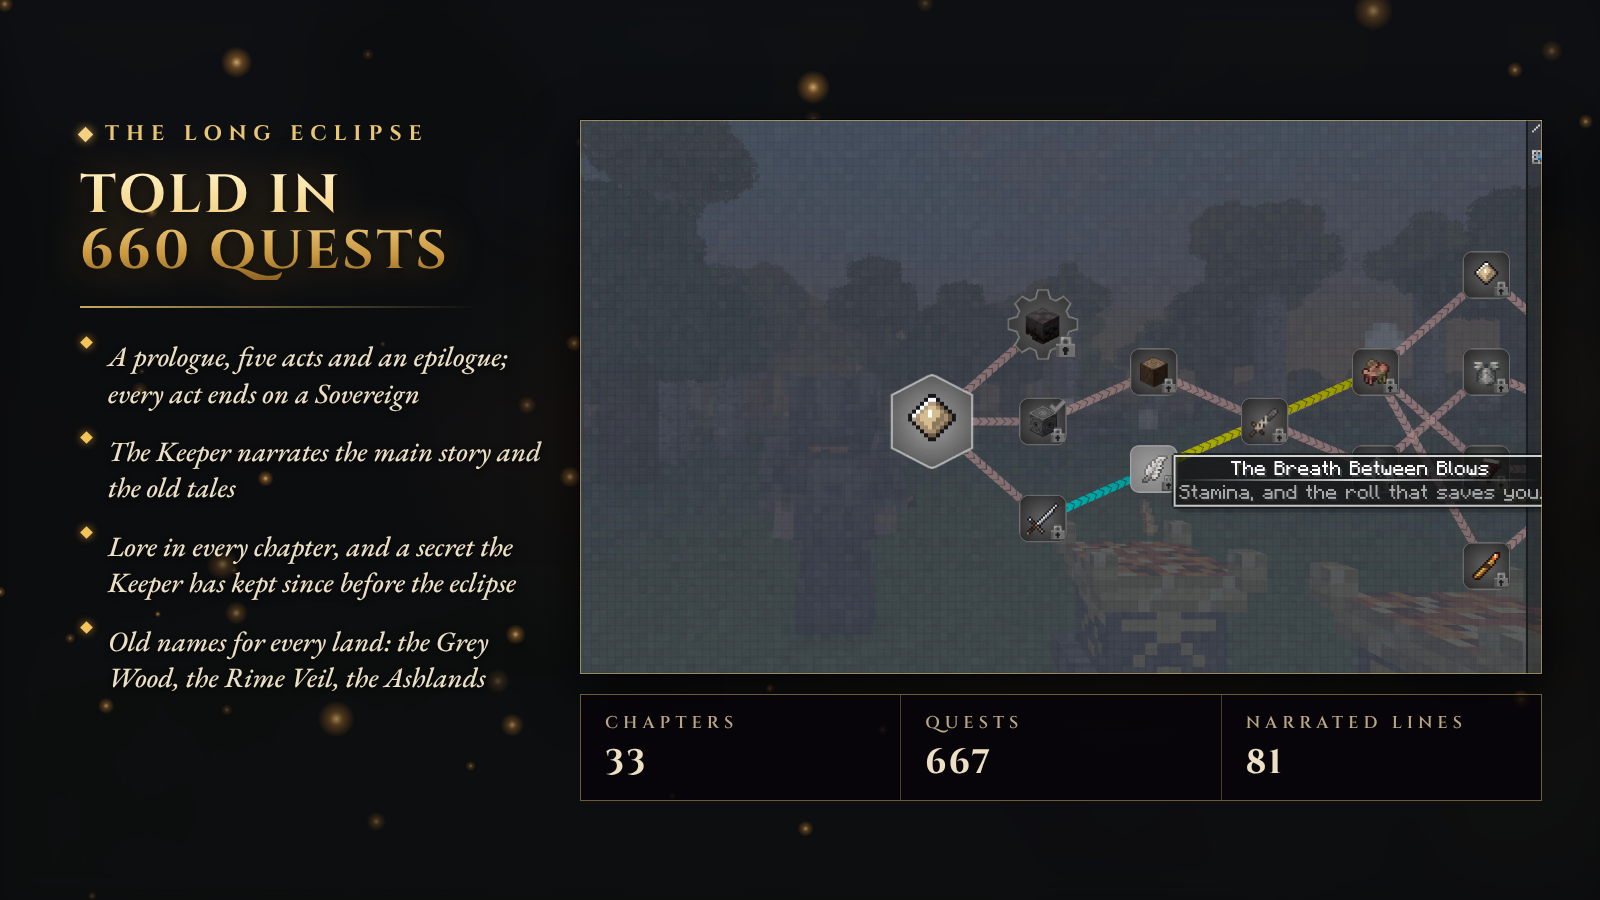
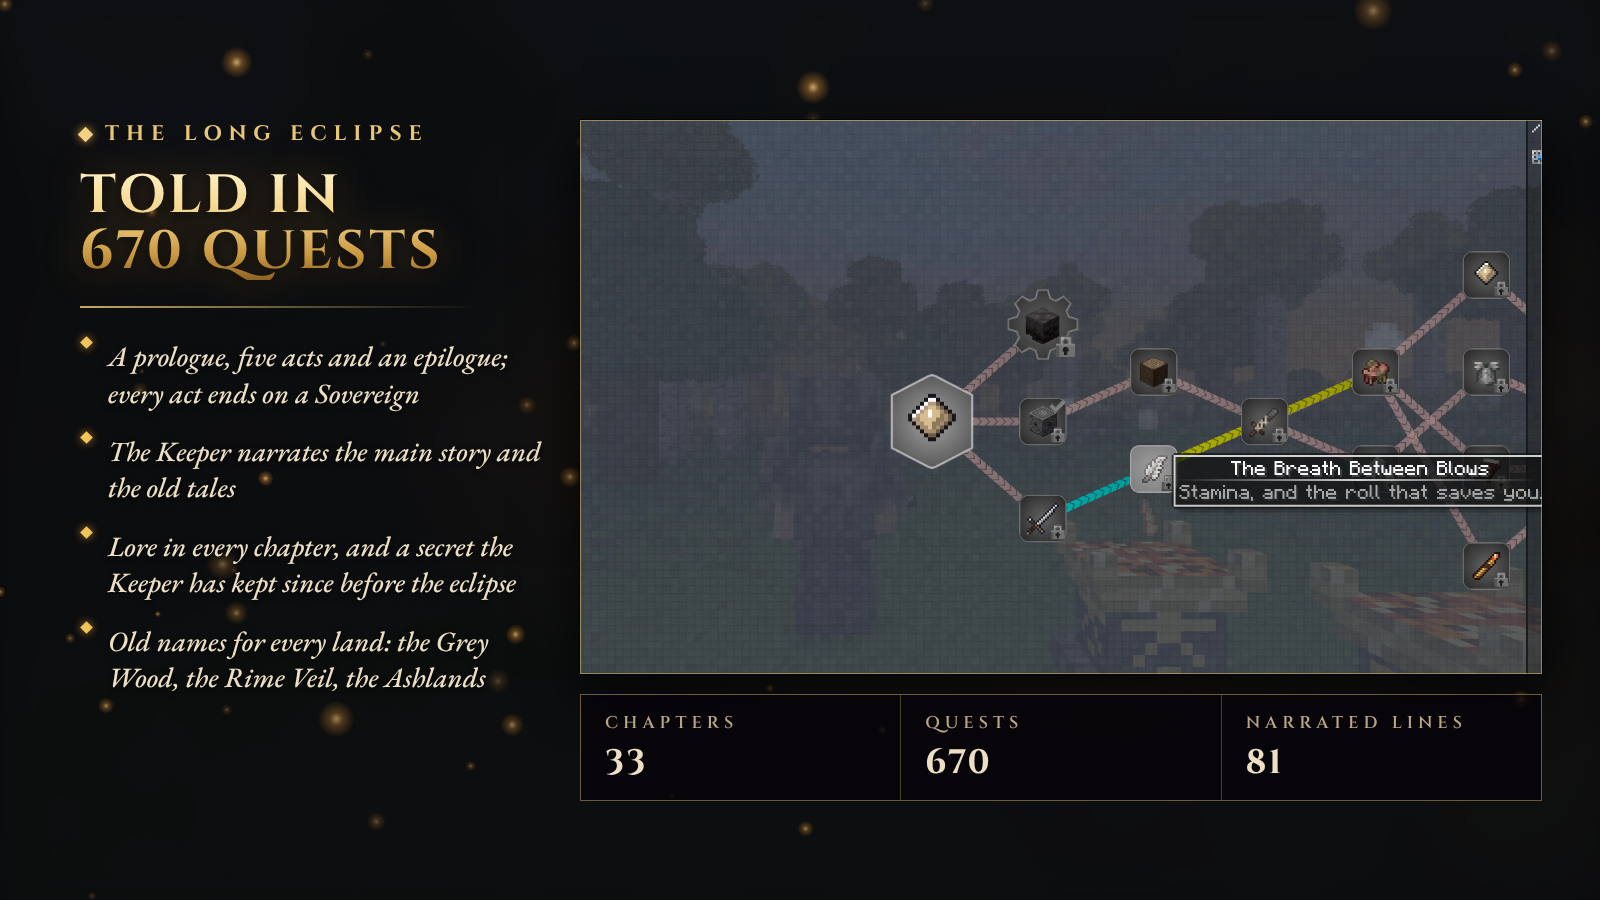
Store pages: Apex Hosting sponsor block, the community server, what's new in beta 12
Both pages gain the supplied sponsor banner linked to apexhost.gg/NightBeam, a
"Sponsored by Apex Hosting" label, the code APEX25, the community server address
and a plain statement of what the pack does in game for the sponsor.

- Modrinth: at the top, under the title banner (no placement rule there).
- CurseForge: at the bottom, after the description. Its Moderation Policies
  require server hosting affiliate banners to follow the description and allow no
  promotional material at the top; marketing/README.md has the quotes, the one
  compliant top placement (CurseForge's own 884x58 affiliate slot) and the
  Modrinth advertising disclosure the owner has to switch on.

Also a short "New in beta 12" note in the story section, and the quest count
(667 -> 670) in the text, the title banner and the story card (re-rendered; the
banner's mod count was still 172 and is now 166).

Claude-Session: https://claude.ai/code/session_01PHiZeyRr49yqJi17vcNui2

Changed region(s): [[0.0625, 0.2489, 0.2812, 0.3111], [0.5938, 0.8089, 0.625, 0.8711]]

diff --git a/marketing/MODRINTH.md b/marketing/MODRINTH.md
@@ -1,5 +1,12 @@
 ![Remnants | The Modpack, Season 1: The Long Eclipse](https://raw.githubusercontent.com/MeherBenSalem/Modpack/main/marketing/images/banner.png)
 
+[![Apex Hosting: get 25% off a new server with the code APEX25](https://raw.githubusercontent.com/MeherBenSalem/Modpack/main/art/sponsors/apex-hosting-banner-849x141.png)](https://apexhost.gg/NightBeam)
+
+**Sponsored by Apex Hosting.** Need a server for Remnants? The code **APEX25** takes 25% off a new server at
+[apexhost.gg/NightBeam](https://apexhost.gg/NightBeam) (sponsored link).
+
+**NightBeam Community Server:** `sv6af1d94aa636b.apexmc.co:1376`, already in your Multiplayer list the first time the pack starts.
+
 **[Discord](https://discord.gg/TJc3CxR4jK)**
 
 ## The sun was eaten an age ago
@@ -8,7 +15,7 @@ Everything that died in the dark came back wrong. You wake in a crypt with nothi
 
 **Remnants | The Modpack** is NightBeam Studio's story-driven **soulslike RPG** modpack for Minecraft 1.21.1 on NeoForge.
 It opens in **the Threshold**, a starting area with a boss of its own, then sends you into a world under a black sun to
-relight it one **Ember Shrine** and one **Sovereign** at a time. The story runs through **667 quests**, the dead rise
+relight it one **Ember Shrine** and one **Sovereign** at a time. The story runs through **670 quests**, the dead rise
 ranked and named, and when you die an **Echo** of you guards your runes where you fell.
 
 **Season 1, "The Long Eclipse"** builds NightBeam's own mods (Runeborn, RPG Mobs, the Eclipsed Realm, RPG Stats,
@@ -40,7 +47,7 @@ Skills and Powers, Fellowship and more) into one rule set, with 166 mods in all.
 
 ![The Story](https://raw.githubusercontent.com/MeherBenSalem/Modpack/main/marketing/images/header-story.png)
 
-![Told in 667 quests](https://raw.githubusercontent.com/MeherBenSalem/Modpack/main/marketing/images/card-story.png)
+![Told in 670 quests](https://raw.githubusercontent.com/MeherBenSalem/Modpack/main/marketing/images/card-story.png)
 
 Seven rulers broke the sun to share its light. The Eighth drank what was left and became the **Hollow Sovereign**.
 Since then nothing that dies stays dead. The Keeper of Last Light gives you a spark; the rest is up to you.
@@ -63,6 +70,11 @@ Since then nothing that dies stays dead. The Keeper of Last Light gives you a sp
 - **The Ashen Contracts:** a repeatable bounty board, so the mid-game never runs dry.
 - **The quest book** is NightBeam's own [Core RPG - Quests Engine](https://modrinth.com/mod/core-rpg-quests-engine):
   open it with **Ctrl + J**, form a party with `/team`, and hold **`** to vein-mine.
+
+**New in beta 12: one road through every workshop.** Act I now opens on a threat: the old shrines did not go
+cold by themselves, the Dusk Rider puts them out, and yours is on his road. From Varghast on, each Sovereign answers
+an offering made in a different workshop of Last Light, Sovereign Fragments come at the story's pace (Elites,
+Remnants, quests and contracts all pay them), and the workshops build on each other's parts.
 
 ### Chronicles of the Ash: a story for every NightBeam mod
 
@@ -167,6 +179,11 @@ Every system has one owner, and the overlapping ones are switched off, so every 
 [Fog](https://modrinth.com/mod/WuGVWUF2) and
 [Reactive Music](https://modrinth.com/mod/Bqnfeesx).
 The pack downloads every mod from its own Modrinth project; nothing is re-hosted here.
+
+**Sponsor.** Apex Hosting sponsors this pack. In the game that is one "Need a server?" button, on the title screen
+and on the Multiplayer screen, which opens apexhost.gg/NightBeam through Minecraft's own link confirmation, and the
+community server above, added to your server list once (delete it and it stays gone). No pop-ups, and nothing else
+in the pack is sponsored.
 
 ### How this pack was made
 

diff --git a/marketing/CURSEFORGE.md b/marketing/CURSEFORGE.md
@@ -8,7 +8,7 @@ Everything that died in the dark came back wrong. You wake in a crypt with nothi
 
 **Remnants | The Modpack** is NightBeam Studio's story-driven **soulslike RPG** modpack for Minecraft 1.21.1 on NeoForge.
 It opens in **the Threshold**, a starting area with a boss of its own, then sends you into a world under a black sun to
-relight it one **Ember Shrine** and one **Sovereign** at a time. The story runs through **667 quests**, the dead rise
+relight it one **Ember Shrine** and one **Sovereign** at a time. The story runs through **670 quests**, the dead rise
 ranked and named, and when you die an **Echo** of you guards your runes where you fell.
 
 **Season 1, "The Long Eclipse"** builds NightBeam's own mods (Runeborn, RPG Mobs, the Eclipsed Realm, RPG Stats,
@@ -40,7 +40,7 @@ Skills and Powers, Fellowship and more) into one rule set, with 166 mods in all.
 
 ![The Story](https://raw.githubusercontent.com/MeherBenSalem/Modpack/main/marketing/images/header-story.png)
 
-![Told in 667 quests](https://raw.githubusercontent.com/MeherBenSalem/Modpack/main/marketing/images/card-story.png)
+![Told in 670 quests](https://raw.githubusercontent.com/MeherBenSalem/Modpack/main/marketing/images/card-story.png)
 
 Seven rulers broke the sun to share its light. The Eighth drank what was left and became the **Hollow Sovereign**.
 Since then nothing that dies stays dead. The Keeper of Last Light gives you a spark; the rest is up to you.
@@ -61,6 +61,11 @@ Since then nothing that dies stays dead. The Keeper of Last Light gives you a sp
   the Boss Compendium, the Dungeon Trail, the Bestiary, Hearth and Harvest, the Ash Garden, Last Light, the Clockwork
   Path and the Vaults.
 - **The Ashen Contracts:** a repeatable bounty board, so the mid-game never runs dry.
+
+**New in beta 12: one road through every workshop.** Act I now opens on a threat: the old shrines did not go
+cold by themselves, the Dusk Rider puts them out, and yours is on his road. From Varghast on, each Sovereign answers
+an offering made in a different workshop of Last Light, Sovereign Fragments come at the story's pace (Elites,
+Remnants, quests and contracts all pay them), and the workshops build on each other's parts.
 
 ### Chronicles of the Ash: a story for every NightBeam mod
 
@@ -165,6 +170,18 @@ The CurseForge app downloads every mod from its own project page; the server pac
 ![divider](https://raw.githubusercontent.com/MeherBenSalem/Modpack/main/marketing/images/divider.png)
 
 ---
+
+### Play together
+
+**NightBeam Community Server:** `sv6af1d94aa636b.apexmc.co:1376`. The pack adds it to your Multiplayer list the first time it starts,
+next to your own servers. Delete it and it stays gone.
+
+[![Apex Hosting: get 25% off a new server with the code APEX25](https://raw.githubusercontent.com/MeherBenSalem/Modpack/main/art/sponsors/apex-hosting-banner-849x141.png)](https://apexhost.gg/NightBeam)
+
+**Sponsored by Apex Hosting.** Want a server of your own for Remnants? [Apex Hosting](https://apexhost.gg/NightBeam)
+sponsors this pack: the code **APEX25** takes 25% off a new server. In the game that is one "Need a server?" button,
+on the title screen and on the Multiplayer screen, which opens the same page through Minecraft's own link
+confirmation. No pop-ups, and nothing else in the pack is sponsored.
 
 ### More from NightBeam Studio
 

diff --git a/marketing/README.md b/marketing/README.md
@@ -7,6 +7,7 @@ a banner, a divider, a header and a card per section, bullet lists and a couple 
 |---|---|---|
 | `CURSEFORGE.md` | | The page text (CurseForge's Markdown editor). Images load from this repo's `main` branch on raw.githubusercontent.com |
 | `MODRINTH.md` | | The same page for Modrinth: Modrinth install steps, Modrinth credit links, and the AI-use disclosure Modrinth requires |
+| `../art/sponsors/apex-hosting-banner-849x141.png` | 849×141 | The sponsor banner, as Apex Hosting supplied it; both pages link it to https://apexhost.gg/NightBeam |
 | `images/banner.png` | 1800×600 | Title, tagline and chips over the eclipse at sunset |
 | `images/divider.png` | 1400×40 | Gold rule with a diamond (transparent) |
 | `images/header-*.png` | 1400×120 | Section headers: threshold, story, bosses, systems, world, install (transparent edges) |
@@ -19,6 +20,26 @@ a banner, a divider, a header and a card per section, bullet lists and a couple 
 The images load from this repository's `main` branch on raw.githubusercontent.com, which needs the repository to stay
 **public** (it is, like the other NightBeam repos). If it ever goes private, every image on the CurseForge page turns
 into its alt text; upload the PNGs and GIFs through CurseForge's own image uploader and swap the URLs instead.
+
+## The sponsor block (Apex Hosting)
+
+Both pages carry the sponsor banner, a "Sponsored by Apex Hosting" label, the code APEX25 and the community server
+address (`sv6af1d94aa636b.apexmc.co:1376`). Where it sits differs, because the platforms' rules differ:
+
+- **CurseForge: at the bottom, after the description.** Its Moderation Policies (checked 2026-11-10) say server
+  hosting affiliate banners "must appear at the bottom of the page, following the project description", of
+  "reasonable size", and that the top of a page may hold functional link badges only, with no promotional material.
+  A hosting banner at the top of a CurseForge page is therefore against the rules. The one allowed top placement is
+  CurseForge's own slot: Author Console -> the project -> Description -> server hosting affiliation, which takes a
+  custom banner of 884×58 and a partner URL (the supplied banner is 849×141, so Apex would have to provide that size).
+- **Modrinth: at the top,** under the title banner. Its Content Rules have no placement rule; they ask that anything
+  shown in an image is also there as text (it is) and that links lead to relevant public pages. Since 2026-09-27 a
+  project that contains advertising or sponsorships must switch on the **advertising disclosure** in its settings:
+  do that before publishing this version, because the pack itself now carries the sponsor button.
+- The banner loads from this repository's `main` branch, so it shows only once this change is merged. Paste the
+  pages after the merge, not before.
+- Re-read both rule pages when the sponsor changes: https://support.curseforge.com/en/support/solutions/articles/9000197279-moderation-policies
+  and https://modrinth.com/legal/rules.
 
 ## Regenerate
 
